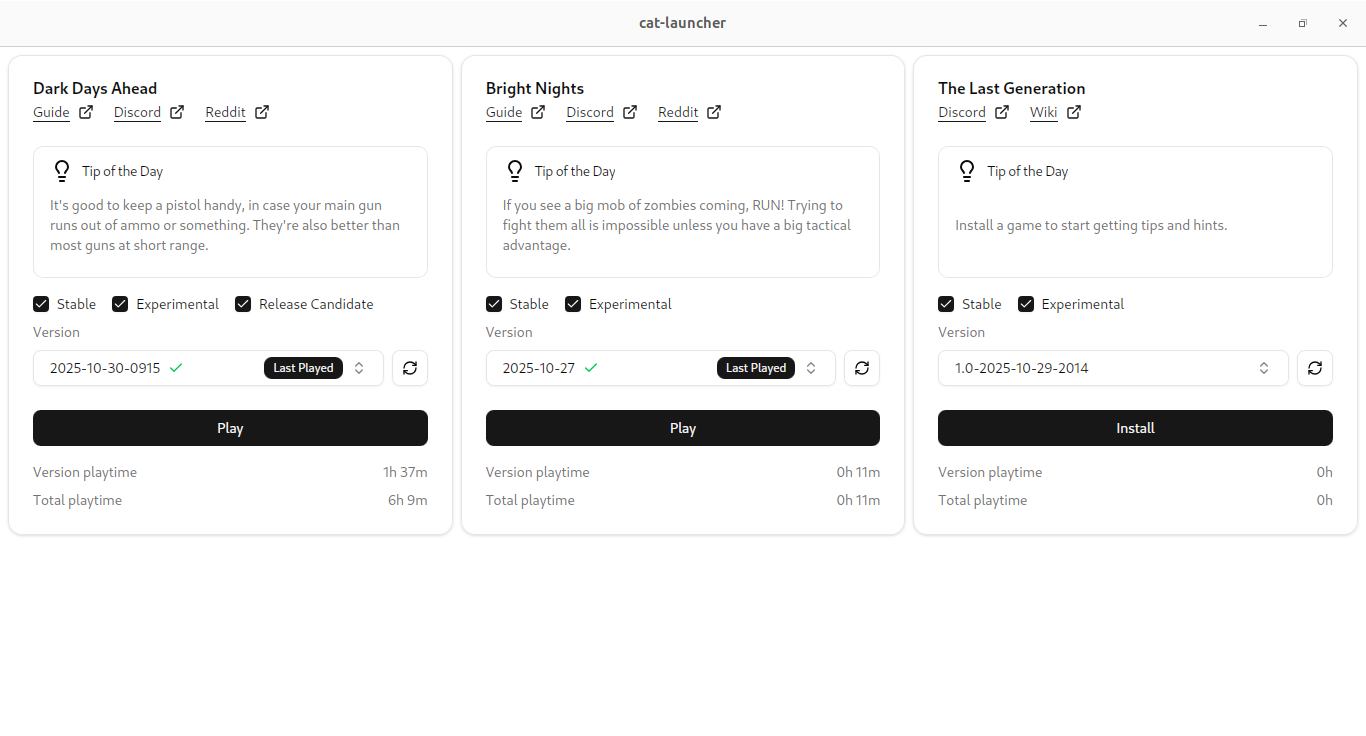
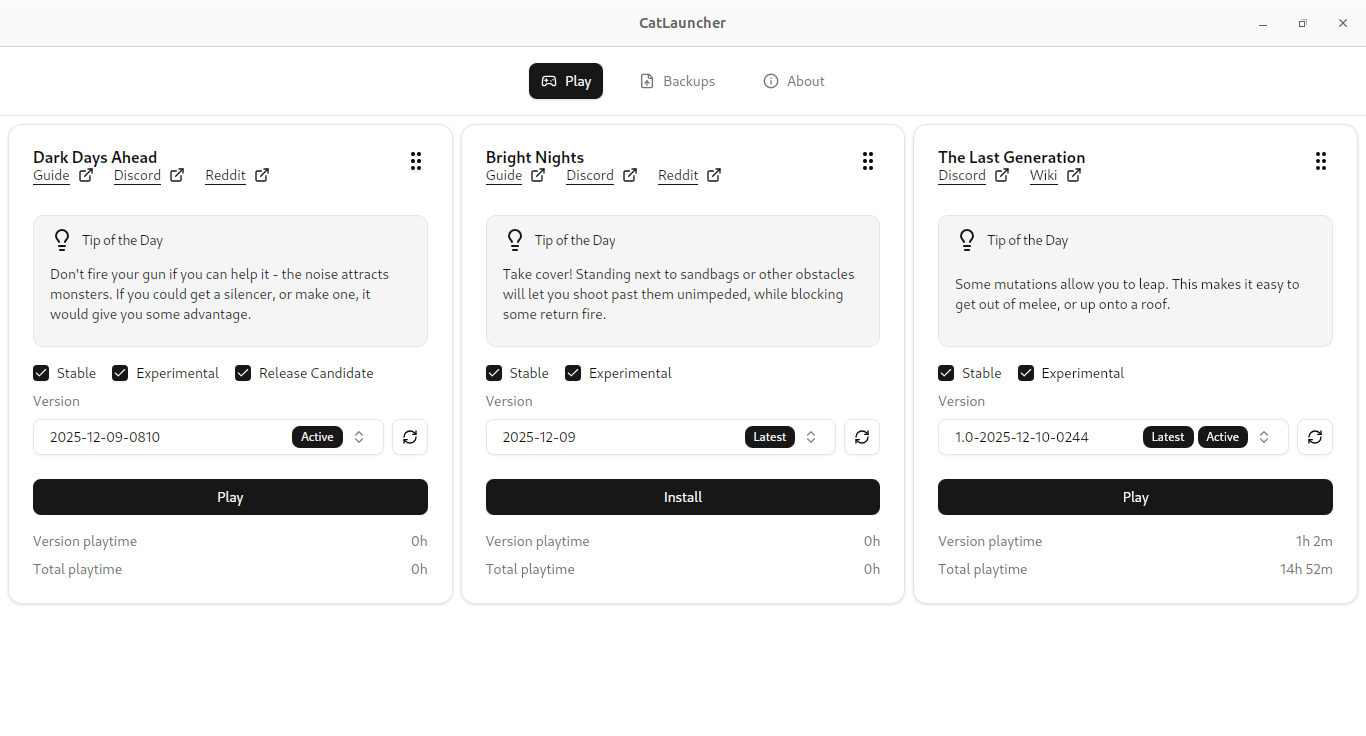
chore(release): bump project version to 0.8.0
Update package metadata and documentation to reflect a new
release version 0.8.0 across the workspace and distribution
artifacts.

- Bump Cargo package version in src-tauri/Cargo.toml and Cargo.lock
- Update tauri.conf.json product version for the Tauri build
- Increment package.json frontend version to 0.8.0
- Update README: reflect new AppImage filename (0.8.0) and add
  features: migrate installed mods, soundpacks, tilesets,
  backup/restore saves, and track play time

These changes standardize the version for the upcoming release
and surface newly delivered features in the README.

diff --git a/README.md b/README.md
@@ -10,9 +10,10 @@ An opinionated cross-platform launcher for Cataclysm games with modern social fe
 
 - [x] Supports Dark Days Ahead, Bright Nights, and The Last Generation.
 - [x] Works on Windows, macOS, and Linux.
-- [x] Automatic migration of saves and configs from your last played game.
+- [x] Automatic migration of saves, configs, installed mods, soundpacks, and tilesets from your last played game.
+- [x] Backup and restore saves.
+- [x] Track play time.
 - [ ] Support for third-party soundpacks, tilesets, fonts, and mods.
-- [ ] Backup and restore saves.
 - [ ] Share saves with friends and strangers online.
 
 ## Installation
@@ -43,7 +44,7 @@ CatLauncher is 100% open-source and the .dmg is built directly from the source c
 
 Downloading the AppImage is the easiest way to install CatLauncher and keep it automatically up-to-date. However, the AppImage may not work on all Linux distros. It's been tested to work on Ubuntu 24.04.
 
-To use the AppImage, download it, and make it executable by running `chmod a+x cat-launcher_0.7.0_amd64.AppImage`, and then run it like you would any other executable.
+To use the AppImage, download it, and make it executable by running `chmod a+x cat-launcher_0.8.0_amd64.AppImage`, and then run it like you would any other executable.
 
 If you encounter issues with the AppImage, you can try installing CatLauncher using the .deb or the .rpm package. It would also help if you can open an issue on GitHub with details of your distro.
 
